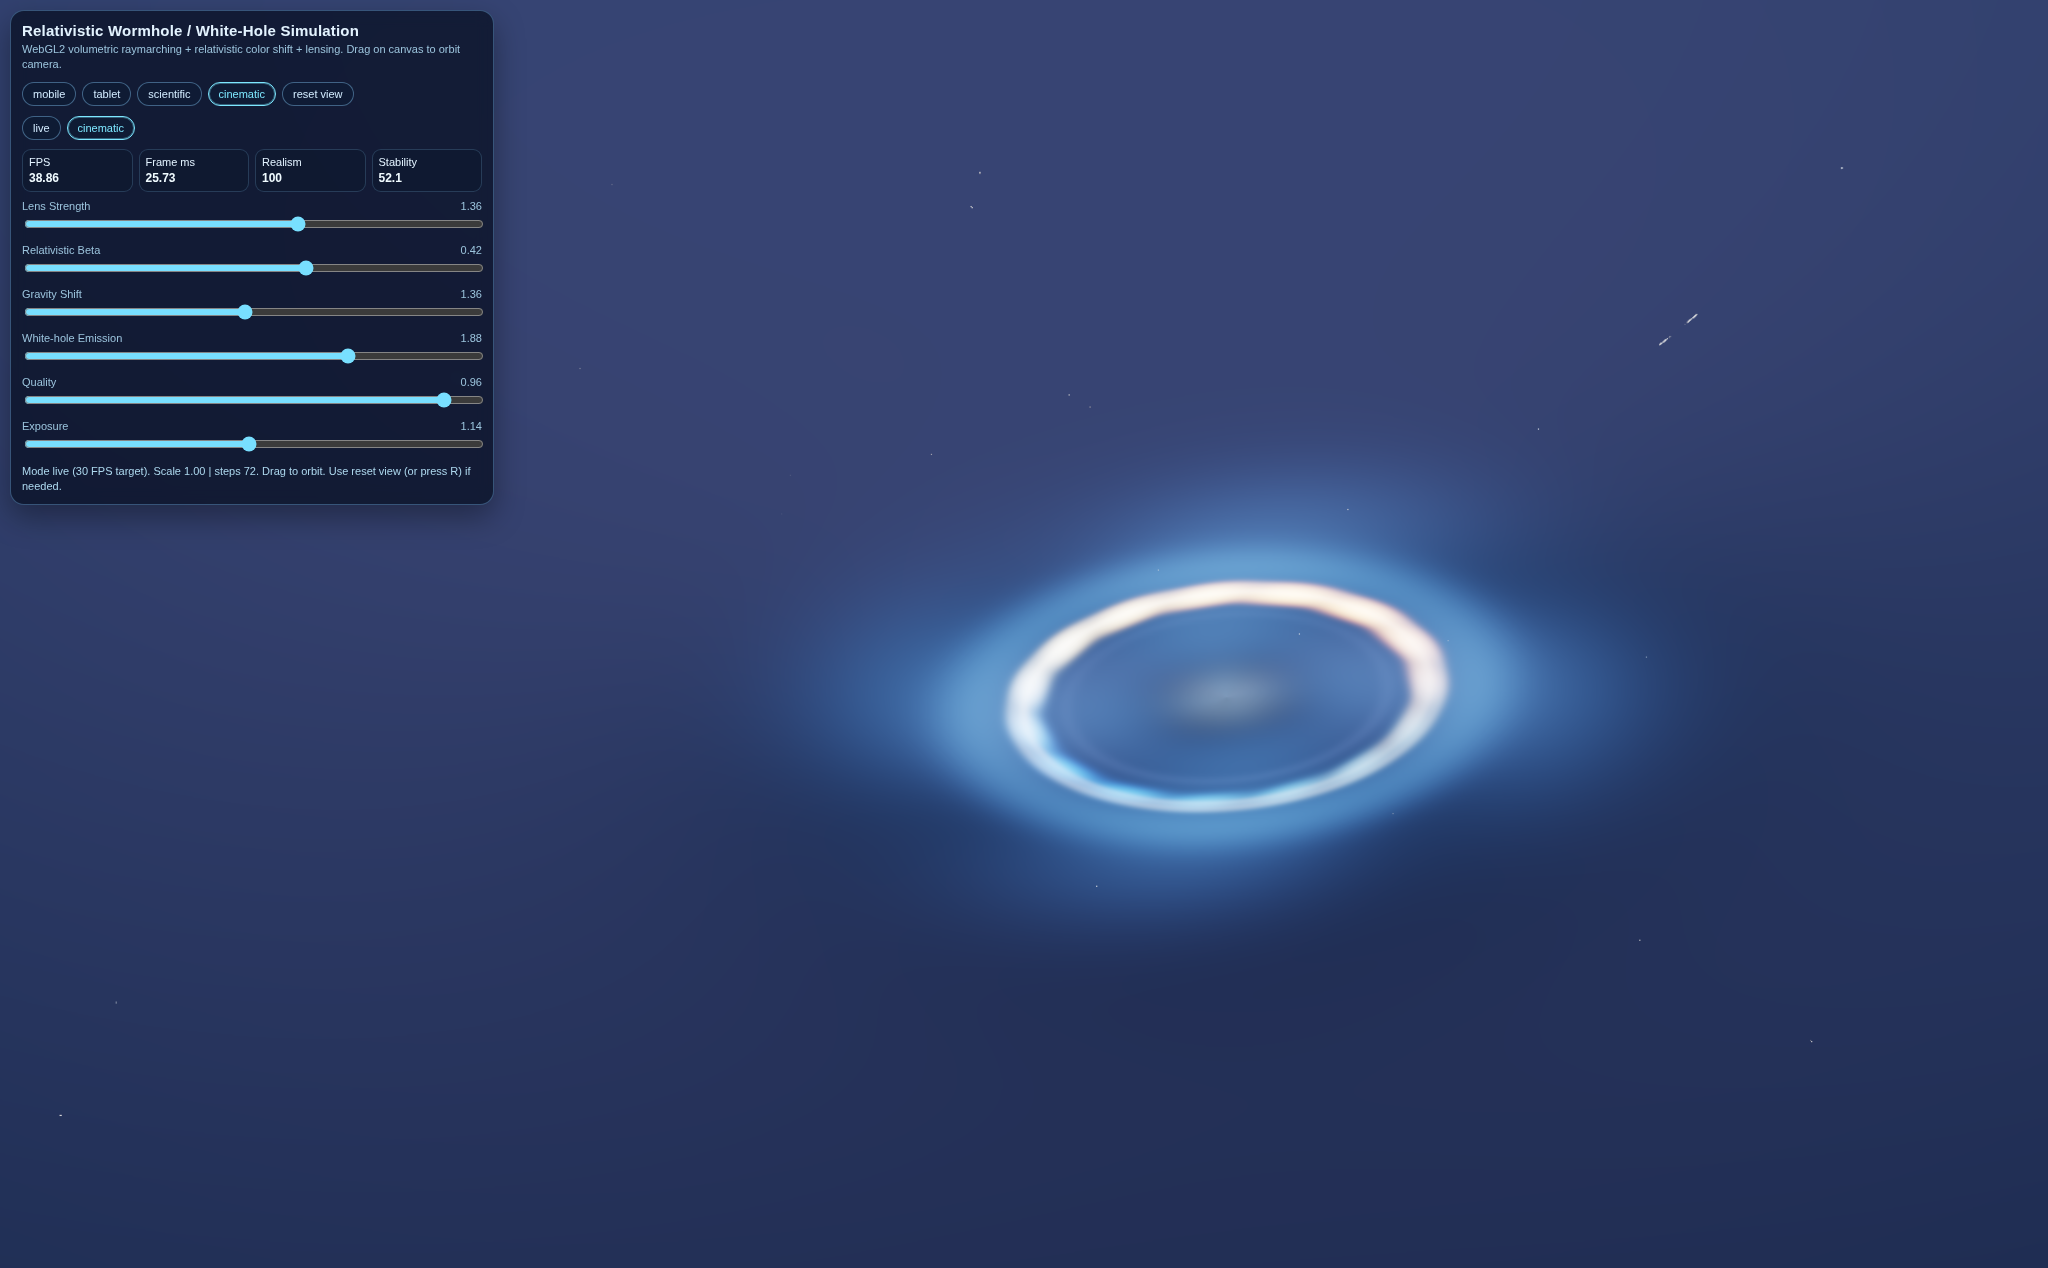
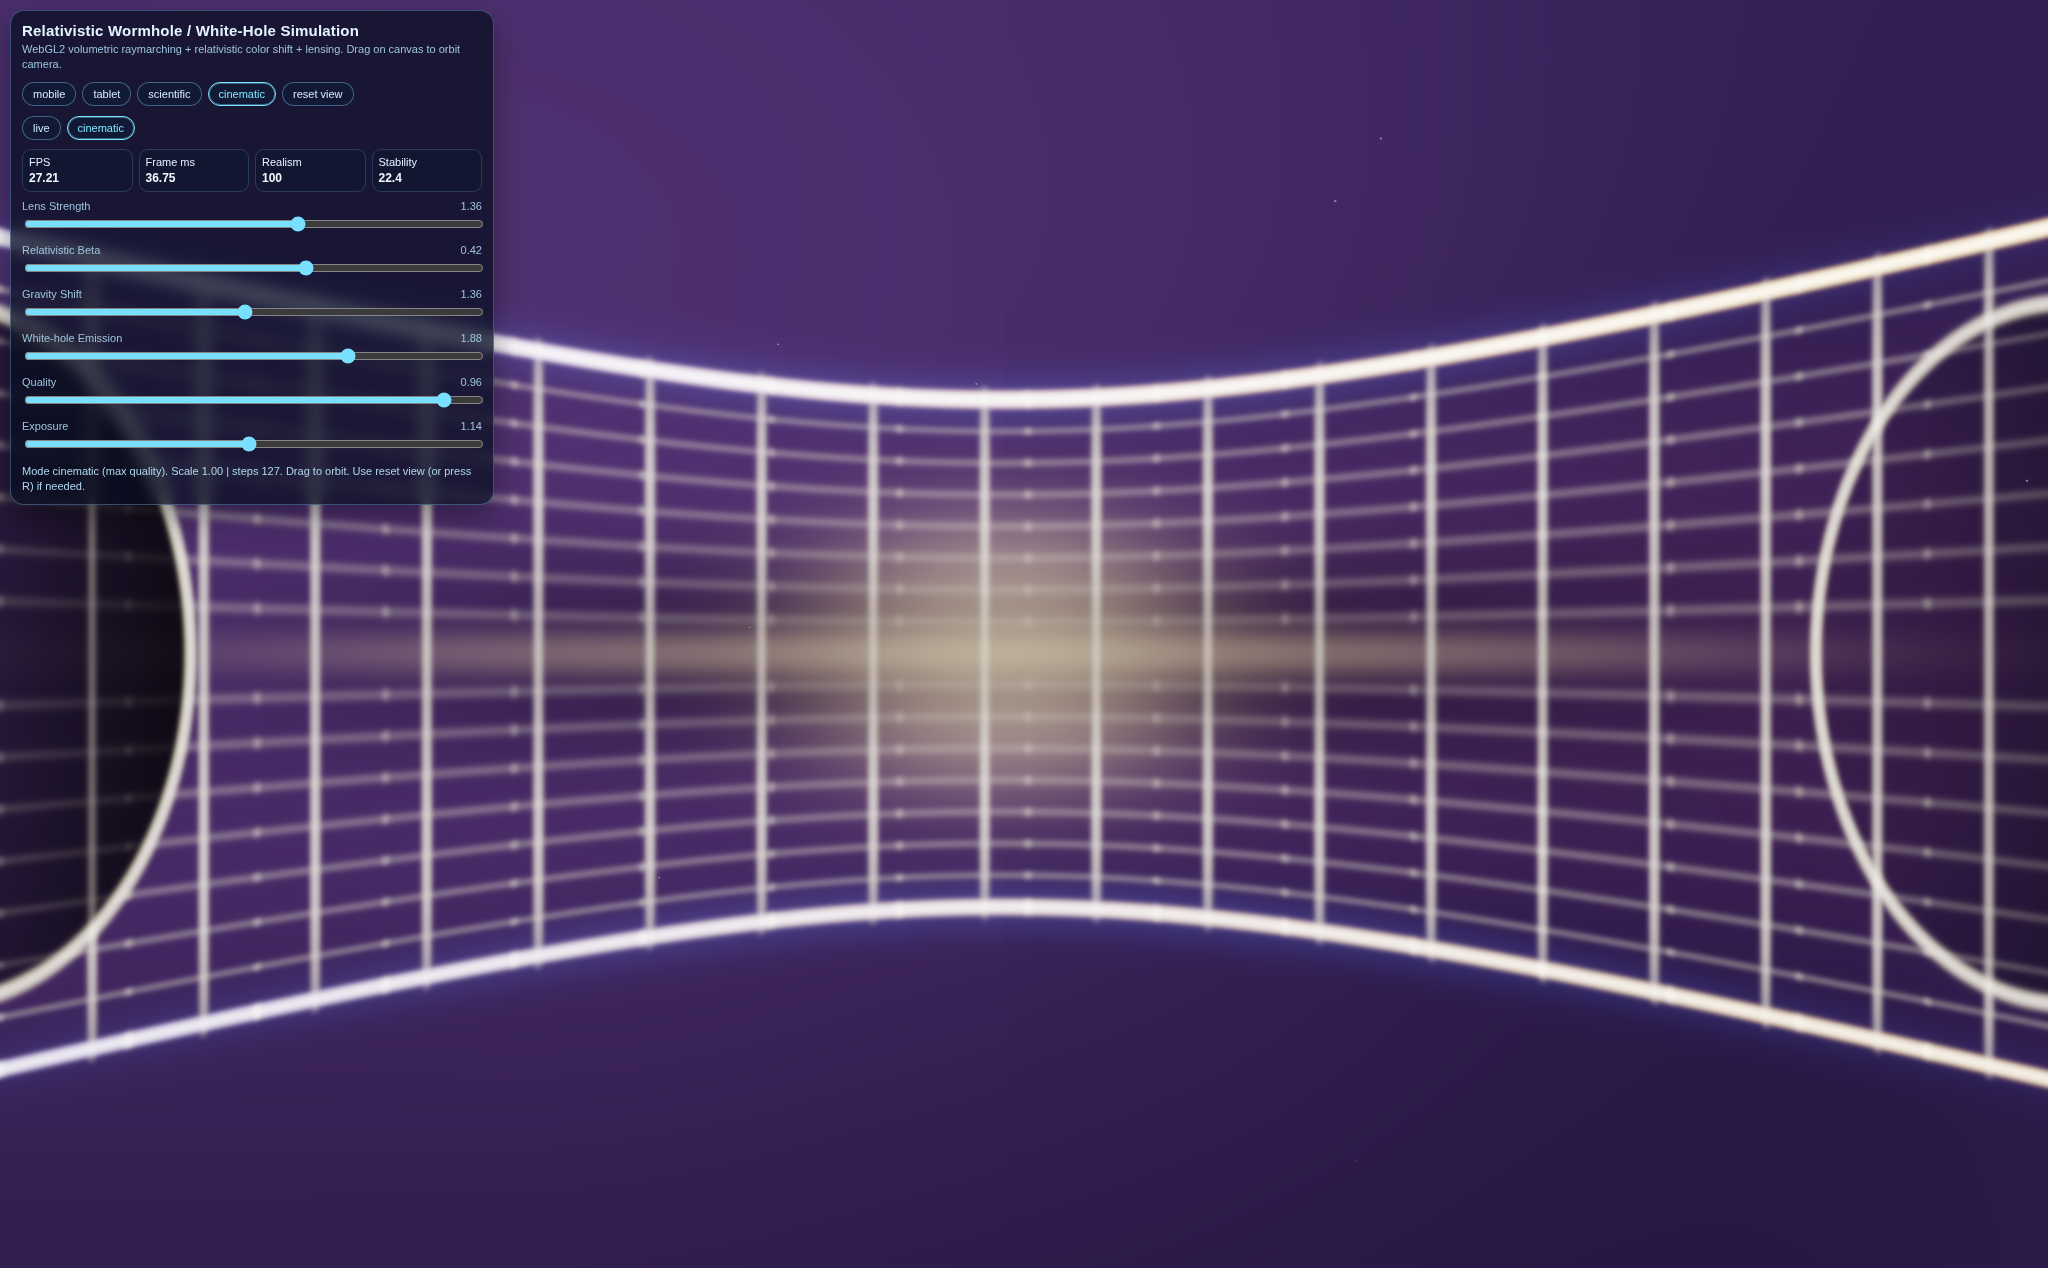
feat(render): switch to animated embedding-diagram wormhole style

diff --git a/src/realtime-webgl/index.html b/src/realtime-webgl/index.html
@@ -524,18 +524,18 @@
 
     vec3 background(vec3 rd) {
       float h = clamp(rd.y * 0.5 + 0.5, 0.0, 1.0);
-      vec3 base = mix(vec3(0.005, 0.012, 0.034), vec3(0.032, 0.058, 0.126), h);
+      vec3 base = mix(vec3(0.012, 0.004, 0.028), vec3(0.050, 0.026, 0.098), h);
 
-      float dustBand = exp(-pow(rd.y * 2.1, 2.0));
-      float dust = 0.5 + 0.5 * sin(rd.x * 9.0 + rd.z * 7.0 + uTime * 0.015);
-      base += vec3(0.034, 0.024, 0.048) * dustBand * dust * 0.55;
+      float dustBand = exp(-pow(rd.y * 2.0, 2.0));
+      float dust = 0.5 + 0.5 * sin(rd.x * 8.0 + rd.z * 6.5 + uTime * 0.018);
+      base += vec3(0.060, 0.032, 0.084) * dustBand * dust * 0.58;
 
       vec3 id = floor(rd * 360.0);
       vec3 fr = fract(rd * 360.0) - 0.5;
       float star = smoothstep(0.09, 0.0, length(fr)) * step(0.9975, hash13(id));
       vec3 starCol = mix(vec3(0.62, 0.78, 1.00), vec3(1.00, 0.85, 0.58), hash13(id + 8.7));
 
-      return base + starCol * star * 8.4;
+      return base + starCol * star * 8.8;
     }
 
     mat2 rot2(float a) {
@@ -544,121 +544,98 @@
       return mat2(c, -s, s, c);
     }
 
-    vec2 lensingField(vec2 q, float r, float a, float lensStrength, float t) {
-      vec2 dir = q / max(r, 1e-4);
-      vec2 tanDir = vec2(-dir.y, dir.x);
-      float radial = lensStrength * 0.100 / (r * r + 0.020);
-      float swirl = 0.004 * sin(a * 6.0 - t * 1.45) * exp(-r * 7.0);
-      return q + dir * radial + tanDir * swirl;
+    float tunnelRadius(float x) {
+      float s = abs(x) * 1.85;
+      return 0.11 + 0.10 * sqrt(1.0 + s * s);
     }
 
-    vec3 accretionDisk(float r, float a, float ringRadius, float ringWidth) {
-      float disk = exp(-pow((r - ringRadius) / ringWidth, 2.0));
-      float rim = exp(-pow((r - ringRadius * 1.01) / (ringWidth * 0.43), 2.0));
-      float nearSide = smoothstep(-0.72, 0.94, sin(a - 0.10));
-      float modeMix = uRenderMode;
-      float filamentLow = 0.5 + 0.5 * sin(a * 8.0 - uTime * 2.0 + r * 30.0);
-      float filamentHi = 0.5 + 0.5 * sin(a * 15.0 - uTime * 3.4 + r * 56.0);
-      float filaments = mix(filamentLow, filamentHi, modeMix);
-
-      vec3 warm = vec3(1.62, 0.94, 0.42);
-      vec3 cool = vec3(0.22, 0.62, 1.36);
-      vec3 col = mix(cool, warm, nearSide);
-
-      float dop = clamp(1.0 + uBeta * cos(a - 0.12), 0.54, 1.95);
-      col *= vec3(pow(dop, 1.22), 1.0, pow(1.0 / dop, 1.14));
-
-      vec3 energy = col * disk * (0.36 + 1.00 * nearSide) * (0.42 + 0.58 * filaments) * (0.50 + 0.58 * uEmission);
-      energy *= mix(1.0, 1.22, modeMix);
-      energy += vec3(1.00, 0.98, 0.90) * rim * (0.09 + 0.24 * nearSide) * mix(1.0, 1.35, modeMix);
-      return energy;
-    }
-
-    vec3 throatVolume(float r, float a, float ringRadius, int raySteps) {
-      float inner = max(0.0001, r / max(0.0001, ringRadius * 0.95));
-      float depth = 1.0 / (inner + 0.10);
-      float occlusion = exp(-pow(r / (ringRadius * 0.53), 2.7));
-
-      vec3 accum = vec3(0.0);
-      float trans = 1.0;
-      float maxDepth = mix(3.8, 8.6, uRenderMode);
-      float stepsInv = 1.0 / max(1.0, float(raySteps));
-      for (int i = 0; i < 128; i++) {
-        if (i >= raySteps) break;
-        float fi = float(i) * stepsInv;
-        float z = fi * maxDepth;
-        float swirlA = sin(a * 5.0 + z * 4.8 - uTime * 2.3);
-        float swirlB = sin(a * 9.0 - z * 3.2 + uTime * 1.4);
-        float spinLive = clamp(0.5 + 0.25 * swirlA + 0.25 * swirlB, 0.0, 1.0);
-        float spinCine = 0.5 + 0.5 * sin(z * 6.4 - uTime * 1.5 + inner * 2.4);
-        float spin = mix(spinLive, spinCine, uRenderMode);
-        float bandsBase = sin(z * 11.0 - uTime * 1.6 + inner * 3.0);
-        float bandsHi = sin(z * 18.0 + uTime * 2.2 + inner * 5.0);
-        float bandsLive = clamp(0.5 + 0.35 * bandsBase + 0.15 * bandsHi * uRenderMode, 0.0, 1.0);
-        float bandsCine = 0.5 + 0.5 * sin(z * 8.2 + uTime * 1.1 + inner * 2.6);
-        float bands = mix(bandsLive, bandsCine, uRenderMode * 0.75);
-        float density = exp(-z * 0.72) * (0.46 + 0.54 * bands) * exp(-pow(inner, 1.28));
-        vec3 col = mix(vec3(0.015, 0.032, 0.070), vec3(0.20, 0.44, 0.98), spin);
-        float stepLen = maxDepth * stepsInv;
-        float alpha = 1.0 - exp(-density * (1.8 + uEmission * 0.45) * stepLen);
-        accum += trans * col * alpha;
-        trans *= (1.0 - alpha);
-        if (trans < 0.02) break;
-      }
-      accum *= (1.0 - occlusion * (0.86 + 0.10 * uGravShift));
-      return accum;
+    float tunnelRadiusDx(float x) {
+      float e = 0.001;
+      return (tunnelRadius(x + e) - tunnelRadius(x - e)) / (2.0 * e);
     }
 
     vec3 composeWormhole(mat3 cam, vec2 uv, int raySteps) {
-      vec2 center = mix(vec2(0.19, -0.01), vec2(0.16, -0.05), uRenderMode);
-      vec2 p = uv - center;
-      p = rot2(uCamAngles.x * 0.42) * p;
+      float mode = uRenderMode;
+      float t = uTime;
 
-      float tiltLive = clamp(0.62 + 0.26 * cos(uCamAngles.y * 1.2), 0.52, 0.92);
-      float tiltCine = clamp(0.42 + 0.12 * cos(uCamAngles.y + 0.4), 0.34, 0.62);
-      float tilt = mix(tiltLive, tiltCine, uRenderMode);
-      vec2 q = vec2(p.x, p.y / tilt);
-      float r = length(q) + 1e-4;
-      float a = atan(q.y, q.x);
+      vec2 p = uv;
+      p.x += sin(uCamAngles.x) * 0.075;
+      p.y += sin(uCamAngles.y) * 0.055;
 
-      vec2 qLensed = lensingField(q, r, a, uLensStrength, uTime);
-      vec2 uvBg = center + vec2(qLensed.x, qLensed.y * tilt);
-      vec3 rdBg = normalize(cam * vec3(uvBg, 1.72));
-      vec3 color = background(rdBg);
+      float x = p.x * 1.45;
+      float y = p.y * 1.05;
+      float ay = abs(y);
 
-      float ringRadiusBase = mix(0.108, 0.148, clamp(uLensStrength / 1.8, 0.0, 1.0));
-      float ringRadius = mix(ringRadiusBase, ringRadiusBase * 1.08 + 0.010, uRenderMode);
-      float ringWidth = mix(0.032, 0.012, uQuality) * mix(1.0, 0.78, uRenderMode);
+      float r = tunnelRadius(x);
+      float sd = ay - r;
+      float drdx = tunnelRadiusDx(x);
+      vec2 n = normalize(vec2(-drdx, sign(y == 0.0 ? 1.0 : y)));
+      vec2 ldir = normalize(vec2(-0.32, 0.95));
+      float diff = clamp(dot(n, ldir), 0.0, 1.0);
 
-      vec3 diskEnergy = accretionDisk(r, a, ringRadius, ringWidth);
-      vec3 throat = throatVolume(r, a, ringRadius, raySteps);
-      float throatMask = exp(-pow(r / (ringRadius * 0.92), 1.55));
-      color += diskEnergy;
-      color = mix(color, throat + color * 0.45, throatMask * 0.62);
+      float shellW = mix(0.0065, 0.0048, mode);
+      float shell = exp(-pow(sd / shellW, 2.0));
+      float inside = 1.0 - smoothstep(0.0, 0.016, sd);
 
-      vec2 dir = q / max(r, 1e-4);
-      float mirrorR = ringRadius * ringRadius / (r + 0.030);
-      vec2 qMirror = dir * mirrorR;
-      vec2 uvMirror = center + vec2(qMirror.x, qMirror.y * tilt);
-      vec3 lensCol = background(normalize(cam * vec3(uvMirror, 1.72)));
-      float nearSide = smoothstep(-0.72, 0.94, sin(a - 0.10));
-      float lensBand = exp(-pow((r - ringRadius * 0.80) / (ringWidth * 0.72), 2.0));
-      color += lensCol * lensBand * (0.22 + 0.14 * (1.0 - nearSide));
+      float lineDetail = mix(1.0, float(raySteps) / 98.0, mode);
+      float merPhase = (x * mix(10.5, 16.5, mode) - t * 0.55) * lineDetail;
+      float meridian = exp(-pow(sin(merPhase) / 0.11, 2.0));
 
-      float photonRing = exp(-pow((r - ringRadius * 1.06) / 0.006, 2.0));
-      float halo = exp(-pow((r - ringRadius * 1.24) / 0.034, 2.0));
-      color += vec3(0.90, 0.98, 1.12) * photonRing * 0.18;
-      color += vec3(0.16, 0.42, 0.94) * halo * 0.20;
+      float latAccum = 0.0;
+      for (int i = 1; i <= 8; i++) {
+        float f = float(i) / 8.0;
+        float yi = r * f;
+        float w = mix(0.0052, 0.0032, f);
+        latAccum += exp(-pow((ay - yi) / w, 2.0));
+      }
+      float latGrid = clamp(latAccum * 0.18, 0.0, 1.0) * inside;
+      float lonRibs = exp(-pow(sin((x * mix(13.0, 19.0, mode) - t * 0.46) * lineDetail) / 0.13, 2.0));
+      float lonMask = inside * exp(-pow(ay / max(0.0001, r * 1.02), 6.0));
+      float mesh = clamp(shell * (0.55 + 0.45 * meridian) + latGrid * (0.45 + 0.55 * meridian) + lonRibs * lonMask * 0.42, 0.0, 1.0);
 
-      float dopplerArc = smoothstep(-0.2, 1.0, cos(a - 0.4));
-      float shearBand = exp(-pow((r - ringRadius * 0.97) / (ringWidth * 0.65), 2.0));
-      color += vec3(0.90, 0.64, 0.34) * shearBand * dopplerArc * 0.24 * uRenderMode;
+      vec3 warm = vec3(1.62, 1.02, 0.40);
+      vec3 cool = vec3(0.58, 0.54, 1.38);
+      float sideMix = smoothstep(-1.2, 1.2, x + 0.16 * sin(t * 0.08));
+      vec3 shellCol = mix(cool, warm, sideMix) * (0.52 + 0.72 * diff);
 
-      float cinematicArc = exp(-pow((r - ringRadius * 1.30) / 0.12, 2.0)) *
-        (0.65 + 0.35 * sin(a * 4.0 + uTime * 0.8 + r * 6.0));
-      color += vec3(0.20, 0.46, 1.04) * cinematicArc * 0.14 * uRenderMode;
-      float cinematicCore = exp(-pow(r / (ringRadius * 0.28), 2.0));
-      color += vec3(0.58, 0.82, 1.22) * cinematicCore * 0.18 * uRenderMode;
+      float throat = exp(-pow(x / 0.19, 2.0)) * exp(-pow(ay / 0.08, 2.0));
+      float beam = exp(-pow(ay / 0.018, 2.0)) * exp(-pow(x / 0.62, 2.0));
+      vec3 core = vec3(1.95, 1.62, 1.02) * (0.22 * throat + 0.12 * beam);
+      core *= mix(1.0, 1.18, mode);
+
+      vec2 ml = vec2(-1.22, 0.0);
+      vec2 mr = vec2( 1.22, 0.0);
+      float mouthR = mix(0.24, 0.285, mode);
+      float mouthL = 1.0 - smoothstep(mouthR, mouthR + 0.008, length(vec2(x, y) - ml));
+      float mouthRgt = 1.0 - smoothstep(mouthR, mouthR + 0.008, length(vec2(x, y) - mr));
+      mouthL *= smoothstep(-1.65, -0.78, x);
+      mouthRgt *= smoothstep(0.78, 1.65, x);
+      float mouths = max(mouthL, mouthRgt);
+
+      float lens = uLensStrength * 0.08 / (abs(sd) + 0.06);
+      vec2 uvWarp = uv;
+      uvWarp.x += sign(x) * lens * exp(-ay * 2.2) * 0.07;
+      uvWarp.y += sin(x * 8.8 + t * 0.56) * lens * 0.010;
+      vec3 bg = background(normalize(cam * vec3(uvWarp, 1.75)));
+
+      vec3 color = bg;
+      color += shellCol * shell * (0.42 + 0.34 * uEmission);
+      color += vec3(1.00, 0.92, 0.80) * mesh * mix(0.78, 0.95, mode);
+      color += core;
+
+      float interior = exp(-pow(ay / max(0.05, r * 0.75), 2.7));
+      color += mix(vec3(0.045, 0.018, 0.085), vec3(0.12, 0.035, 0.085), sideMix) * interior * 0.16 * inside;
+
+      float cavity = exp(-pow(ay / max(0.04, r * 0.40), 2.4)) * exp(-pow(x / 0.80, 2.0));
+      color *= (1.0 - 0.62 * cavity);
+      color *= (1.0 - 0.995 * mouths);
+
+      float ringL = exp(-pow((length(vec2(x, y) - ml) - mouthR * 1.02) / 0.0055, 2.0));
+      float ringR = exp(-pow((length(vec2(x, y) - mr) - mouthR * 1.02) / 0.0055, 2.0));
+      color += vec3(0.98, 0.90, 0.72) * (ringL + ringR) * 0.58;
+
+      float seam = exp(-pow((ay - r) / 0.022, 2.0)) * exp(-pow(x / 1.10, 2.0));
+      color += vec3(0.12, 0.32, 0.96) * seam * 0.06 * mode;
 
       return color;
     }
@@ -667,10 +644,10 @@
       vec2 frag = gl_FragCoord.xy;
       vec2 uv = (frag - 0.5 * uResolution) / uResolution.y;
 
-      float yaw = uCamAngles.x + uTime * mix(0.048, 0.028, uRenderMode);
+      float yaw = uCamAngles.x + uTime * mix(0.042, 0.022, uRenderMode);
       float pitch = clamp(uCamAngles.y, -1.0, 1.0);
-      float radius = mix(8.5, 6.8, uRenderMode);
-      float height = mix(1.9, 3.0, uRenderMode);
+      float radius = mix(8.4, 7.0, uRenderMode);
+      float height = mix(2.2, 3.2, uRenderMode);
       vec3 ro = vec3(cos(yaw) * radius, sin(pitch) * height, sin(yaw) * radius);
       mat3 cam = cameraBasis(ro, vec3(0.0));
 
